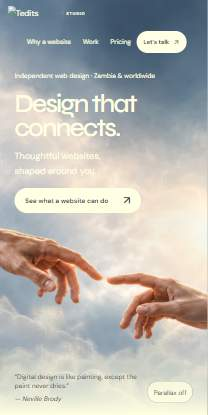
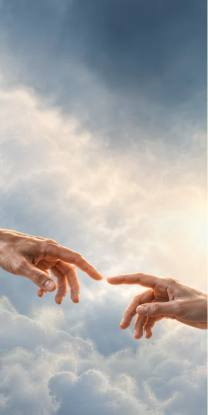
Remove old page text from hero previews and lighten the italic

diff --git a/studio/index.html b/studio/index.html
@@ -17,7 +17,7 @@
   <link rel="stylesheet" href="studio-rounded.css?v=5">
   <link rel="stylesheet" href="studio-story.css">
   <link rel="stylesheet" href="studio-ui.css">
-  <link rel="stylesheet" href="studio-home.css">
+  <link rel="stylesheet" href="studio-home.css?v=2">
   <link rel="stylesheet" href="../smooth-scroll.css">
   <script src="../vendor/lenis/lenis-1.3.27.min.js" defer></script>
   <script src="../smooth-scroll.js" defer></script>
@@ -31,8 +31,8 @@
       <div class="cloud-pin"><div class="cloud-hero" id="cloud-hero">
         <div class="cloud-art" role="img" aria-label="Two hands reaching towards one another through a soft, cloud-filled sky.">
           <picture class="cloud-preview">
-            <source media="(max-width: 760px)" srcset="assets/clouds/preview-tall.jpg">
-            <img src="assets/clouds/preview-wide.jpg" alt="" fetchpriority="high">
+            <source media="(max-width: 760px)" srcset="assets/clouds/preview-tall.jpg?v=2">
+            <img src="assets/clouds/preview-wide.jpg?v=2" alt="" fetchpriority="high">
           </picture>
           <div class="cloud-detail">
           <div class="cloud-sky" data-cloud-layer="sky"><img data-src="assets/clouds/sky.webp" alt="" width="1672" height="940"></div>

diff --git a/studio/studio-home.css b/studio/studio-home.css
@@ -1,7 +1,7 @@
 @font-face{
   font-family:"Fraunces Hero";
-  src:url("assets/fonts/fraunces-connects.woff2") format("woff2");
-  font-weight:900;
+  src:url("assets/fonts/fraunces-connects-light.woff2") format("woff2");
+  font-weight:350;
   font-style:italic;
   font-display:swap;
 }
@@ -22,8 +22,8 @@
   text-shadow:0 2px 16px #17192170;
 }
 .story-home .cloud-copy .hero-accent{
-  font:italic 900 1.15em/.98 "Fraunces Hero",Georgia,serif;
-  letter-spacing:-.065em;
+  font:italic 350 1.15em/.98 "Fraunces Hero",Georgia,serif;
+  letter-spacing:-.045em;
 }
 .hero-actions{
   display:flex;
